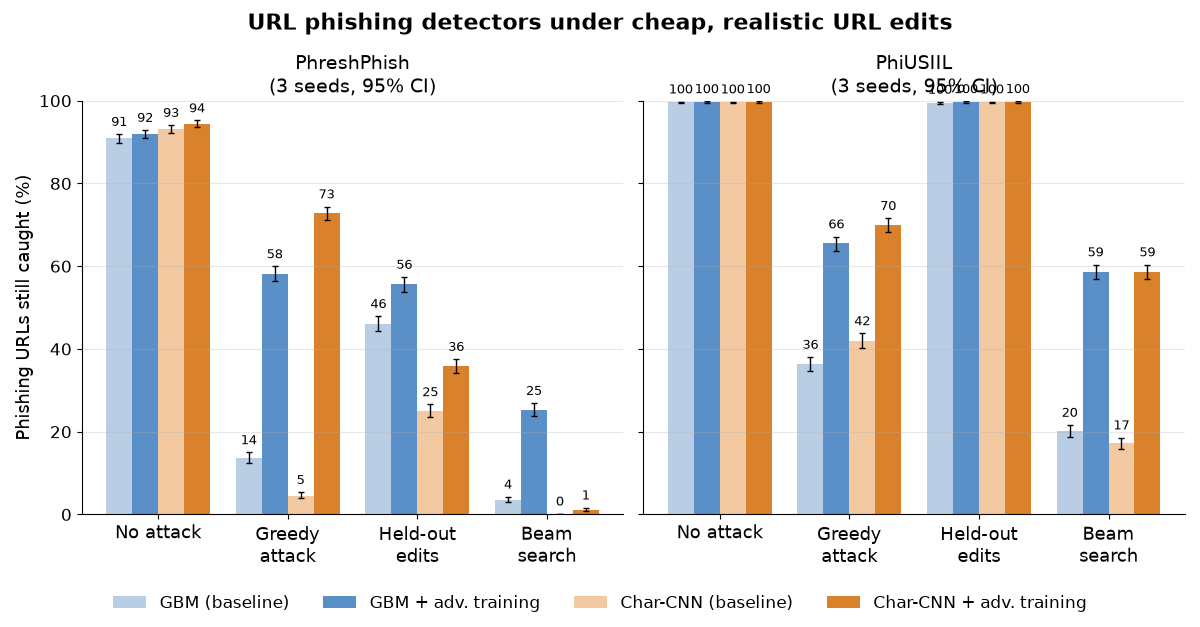
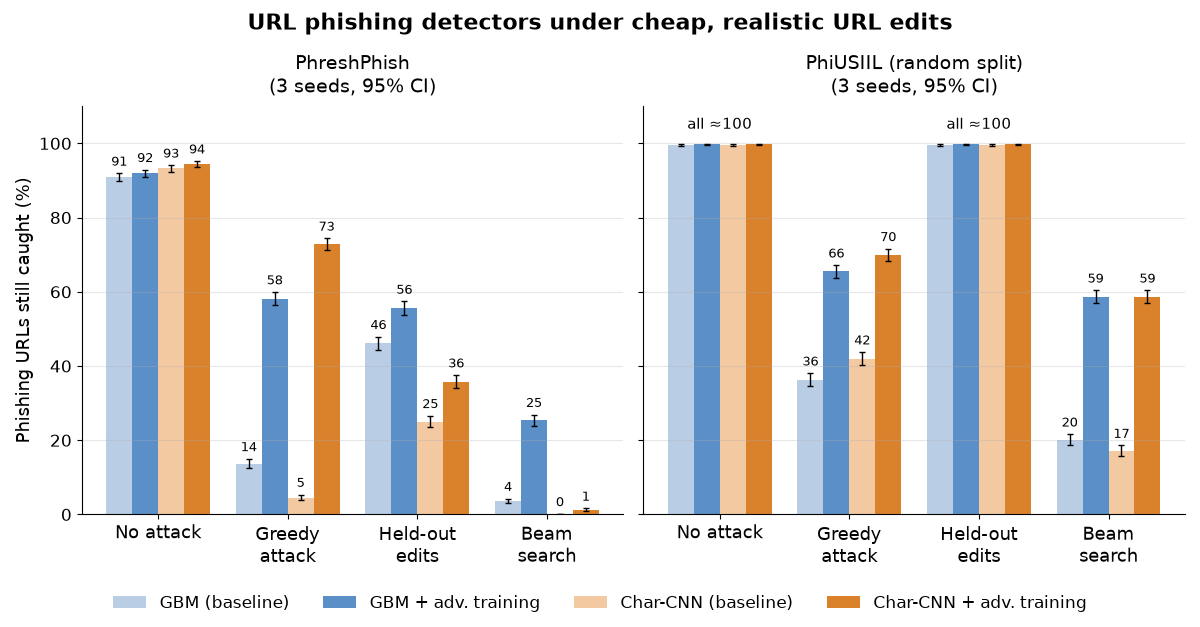
WIP round2: hero figure layout (no overlapping labels, split named)

diff --git a/src/phishadv/defense_report.py b/src/phishadv/defense_report.py
@@ -135,6 +135,13 @@ def hero(summary: pd.DataFrame, out: Path, datasets=None) -> None:
         d = summary[summary.dataset == ds].set_index("model")
         x = np.arange(len(conds))
         w = 0.2
+        # Conditions where every bar is ~100%: one shared label instead of four overlapping ones.
+        allfull = set()
+        for i, (a, _) in enumerate(conds):
+            v = [d.loc[m].get(f"{a}_caught", np.nan) for m, _ in series if m in d.index]
+            if v and all(np.isfinite(t) and t >= 0.995 for t in v):
+                allfull.add(i)
+                ax.text(x[i], 103, "all ≈100", ha="center", va="bottom", fontsize=10.5)
         for j, (m, col) in enumerate(series):
             if m not in d.index:
                 continue
@@ -144,13 +151,15 @@ def hero(summary: pd.DataFrame, out: Path, datasets=None) -> None:
             hi = np.array([100 * r.get(f"{a}_caught_hi", np.nan) for a, _ in conds])
             ax.bar(x + (j - 1.5) * w, vals, w, color=col, label=LABELS[m], yerr=[vals - lo, hi - vals],
                    capsize=2.5, error_kw={"lw": 1})
-            for xi, v, h in zip(x + (j - 1.5) * w, vals, hi):
-                if np.isfinite(v):
+            for i, (xi, v, h) in enumerate(zip(x + (j - 1.5) * w, vals, hi)):
+                if np.isfinite(v) and i not in allfull:
                     ax.text(xi, h + 1.2, f"{v:.0f}", ha="center", va="bottom", fontsize=9.5)
         ax.set_xticks(x, [c for _, c in conds], fontsize=13)
         n = int(d["n_seeds"].max())
-        ax.set_title(f"{DATASET_LABELS[ds]}\n({n} seed{'s' if n > 1 else ''}, 95% CI)", fontsize=14)
-        ax.set_ylim(0, 100)
+        title = {"phiusiil": "PhiUSIIL (random split)"}.get(ds, DATASET_LABELS[ds])
+        ax.set_title(f"{title}\n({n} seed{'s' if n > 1 else ''}, 95% CI)", fontsize=14, pad=10)
+        ax.set_ylim(0, 110)
+        ax.set_yticks(range(0, 101, 20))
         ax.tick_params(axis="y", labelsize=12)
         ax.grid(axis="y", alpha=0.3)
         ax.spines[["top", "right"]].set_visible(False)

diff --git a/README.md b/README.md
@@ -24,7 +24,9 @@ time-split PhreshPhish.
 
 *Share of 1,000 sampled phishing test URLs per seed that each model flags and
 still flags after the attack (same denominator for every model), pooled over
-seeds 42–44, 95% Wilson intervals. Data: [`results/hero_data.csv`](results/hero_data.csv).*
+seeds 42–44, 95% Wilson intervals. The PhiUSIIL panel uses the round-1 random
+split; GBM results on the domain-grouped split are within a few points (see
+below). Data: [`results/hero_data.csv`](results/hero_data.csv).*
 
 ## Quickstart (about 10 minutes, offline after install)
 
